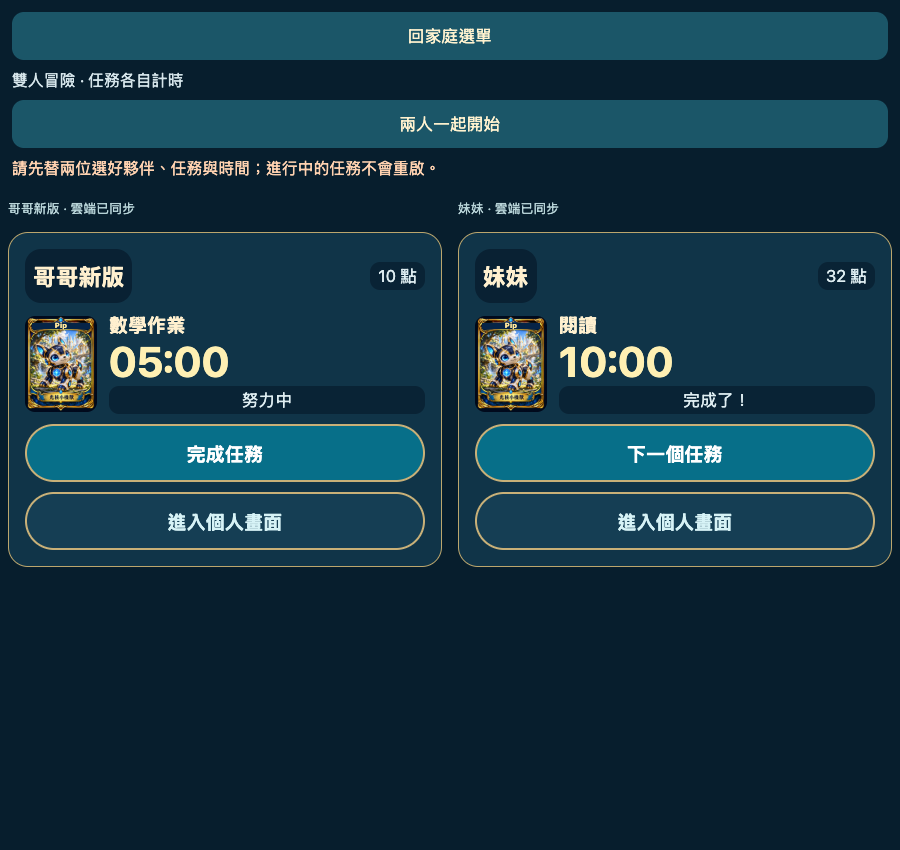
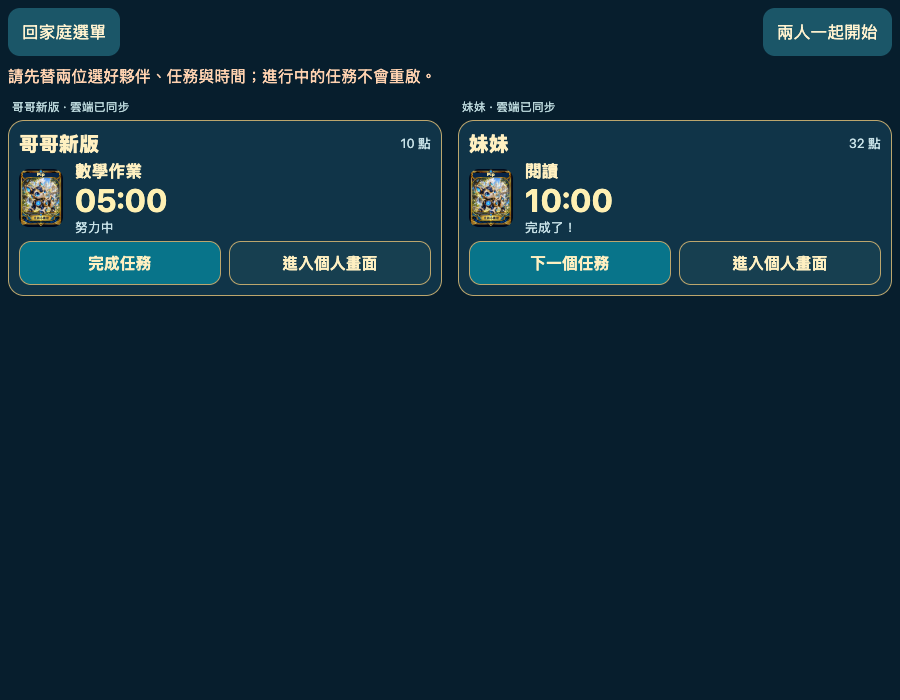
fix(family): fit both child controls on mobile screen
actor=bot approval=user:23180 trigger=duo-mobile-layout; four viewport browser checks passed

diff --git a/src/family/FamilyApp.tsx b/src/family/FamilyApp.tsx
@@ -42,7 +42,7 @@ export default function FamilyApp(){
  const heading=<><Text style={styles.title}>HOLTON HERO</Text><Text style={styles.subtitle}>家庭冒險 · 第二版測試中</Text></>;
  if(!loaded)return <View style={styles.page}><Text style={styles.text}>正在準備家庭冒險…</Text></View>;
  if(!session||recovering)return <ScrollView style={styles.page} contentContainerStyle={styles.center} keyboardShouldPersistTaps="handled">{heading}<View style={styles.card}><Text style={styles.heading}>{recovering?'設定新密碼':signup?'建立家庭帳號':'歡迎回到家庭冒險'}</Text>{!recovering?<TextInput accessibilityLabel="家長 Email" autoCapitalize="none" autoComplete="email" keyboardType="email-address" placeholder="家長 Email" placeholderTextColor="#a8bdc5" value={email} onChangeText={setEmail} style={styles.input}/>:null}<TextInput accessibilityLabel="家庭帳號密碼" secureTextEntry autoCapitalize="none" autoComplete={signup||recovering?'new-password':'current-password'} placeholder="密碼（至少 8 個字元）" placeholderTextColor="#a8bdc5" value={password} onChangeText={setPassword} style={styles.input}/><Btn label={recovering?'儲存新密碼':signup?'註冊':'登入'} disabled={busy} onPress={()=>void run(async()=>{if(recovering){if(password.length<8)throw Error('密碼至少 8 個字元。');const {error}=await supabase.auth.updateUser({password});if(error)throw error;setPassword('');setRecovering(false);}else await authenticate();})}/>{!recovering?<><Btn label={signup?'已有帳號，登入':'第一次使用，建立家庭帳號'} disabled={busy} onPress={()=>{setSignup(!signup);setNotice('');}}/><Btn label="忘記密碼" disabled={busy} onPress={()=>void run(async()=>{if(!email.trim())throw Error('請先填家長 Email。');const {error}=await supabase.auth.resetPasswordForEmail(email.trim(),{redirectTo:location.origin});if(error)throw error;setNotice('若這個信箱有帳號，將收到重設密碼信。');})}/></>:null}<Text style={styles.text}>同一個瀏覽器會保留登入。孩子不用自己的 Email。兩個孩子各自保存進度。</Text>{notice?<Text accessibilityRole="alert" style={styles.notice}>{notice}</Text>:null}</View></ScrollView>;
- if(playing){const players=children.filter(c=>selected.includes(c.id));return <View style={styles.page}><View style={styles.top}><Btn label={expanded&&players.length===2?'回雙人畫面':'回家庭選單'} onPress={()=>{if(expanded&&players.length===2)setExpanded(null);else {setPlaying(false);setExpanded(null);if(children.length<=2)setSelected(children.map(c=>c.id));}}}/><Text style={styles.text}>{players.length===2?'雙人冒險':'單人冒險'} · 任務各自計時</Text>{players.length===2&&!expanded?<Btn label="兩人一起開始" disabled={busy} onPress={()=>void run(async()=>{const pair=players.map(c=>controls.current[c.id]);if(pair.some(c=>!c?.ready))throw Error('請先替兩位選好夥伴、任務與時間；進行中的任務不會重啟。');const at=Date.now();const results=await Promise.all(pair.map(c=>c!.start(at)));if(results.some(ok=>!ok))throw Error('有任務尚未開始，請查看各自的儲存提示；已開始的會繼續計時。');})}/>:null}{notice?<Text accessibilityRole="alert" style={styles.notice}>{notice}</Text>:null}</View><ScrollView contentContainerStyle={{flexGrow:1}}><View style={{flexDirection:width>=850&&!expanded?'row':'column',flex:1}}>{players.map((c,i)=><View key={c.id} style={{flex:1,display:expanded&&expanded!==c.id?'none':'flex'}}><ChildGame controls={controls} child={c} compact={players.length===2&&expanded!==c.id} musicOwner={i===0} onExpand={()=>setExpanded(c.id)}/></View>)}</View></ScrollView></View>;}
+ if(playing){const players=children.filter(c=>selected.includes(c.id));return <View style={styles.page}><View style={[styles.top,players.length===2&&!expanded&&{flexDirection:'row',flexWrap:'wrap',alignItems:'center',justifyContent:'space-between'}]}><Btn label={expanded&&players.length===2?'回雙人畫面':'回家庭選單'} onPress={()=>{if(expanded&&players.length===2)setExpanded(null);else {setPlaying(false);setExpanded(null);if(children.length<=2)setSelected(children.map(c=>c.id));}}}/>{players.length===2&&!expanded?null:<Text style={styles.text}>任務各自計時</Text>}{players.length===2&&!expanded?<Btn label="兩人一起開始" disabled={busy} onPress={()=>void run(async()=>{const pair=players.map(c=>controls.current[c.id]);if(pair.some(c=>!c?.ready))throw Error('請先替兩位選好夥伴、任務與時間；進行中的任務不會重啟。');const at=Date.now();const results=await Promise.all(pair.map(c=>c!.start(at)));if(results.some(ok=>!ok))throw Error('有任務尚未開始，請查看各自的儲存提示；已開始的會繼續計時。');})}/>:null}{notice?<Text accessibilityRole="alert" style={[styles.notice,{width:'100%'}]}>{notice}</Text>:null}</View><ScrollView contentContainerStyle={{flexGrow:1}}><View style={{flexDirection:width>=700&&!expanded?'row':'column',flex:1}}>{players.map((c,i)=><View key={c.id} style={{flex:1,display:expanded&&expanded!==c.id?'none':'flex'}}><ChildGame controls={controls} child={c} compact={players.length===2&&expanded!==c.id} musicOwner={i===0} onExpand={()=>setExpanded(c.id)}/></View>)}</View></ScrollView></View>;}
  return <FamilyStorageContext.Provider value={scope}><ScrollView style={styles.page} contentContainerStyle={styles.center} keyboardShouldPersistTaps="handled">{heading}<View style={styles.card}><Text style={styles.heading}>我們的家庭冒險</Text><Text style={styles.text}>兩個名字、各自進度。任務和時間可以在同一畫面設定。</Text>{children.length>2?<><Text style={styles.text}>既有資料都保留，請選今天使用的兩位。</Text>{children.map(c=><Btn key={c.id} label={`${selected.includes(c.id)?'✓ ':''}${c.nickname}`} onPress={()=>setSelected(ids=>ids.includes(c.id)?ids.filter(id=>id!==c.id):ids.length<2?[...ids,c.id]:ids)}/>)}</>:null}<Btn label={selected.length===2?'開始雙人冒險':'開始冒險'} disabled={!pinReady||selected.length===0||busy} onPress={()=>{setExpanded(null);setManage(false);setPlaying(true);}}/>{children.length<=2?children.map(c=><Btn key={c.id} label={`只有 ${c.nickname} 玩`} disabled={!pinReady} onPress={()=>{setSelected([c.id]);setExpanded(null);setManage(false);setPlaying(true);}}/>):null}{family?<Btn label={pinReady?'家長管理孩子':'設定家長小屋 PIN'} onPress={()=>setPinOpen(true)}/>:<Text style={styles.text}>正在讀取家庭…</Text>}{manage?<View style={{gap:10}}><ChildNames key={children.map(c=>c.id).join()+selected.join()} family={family} children={children.length>2?children.filter(c=>selected.includes(c.id)):children} blocked={children.length>2&&selected.length!==2} onSaved={kids=>{setChildren(kids);if(kids.length<=2)setSelected(kids.map(c=>c.id));}}/><Btn label="離開家長管理" onPress={()=>setManage(false)}/><Btn label="登出家庭帳號" onPress={()=>void run(async()=>{const {error}=await supabase.auth.signOut();if(error)throw error;})}/></View>:null}{notice?<Text accessibilityRole="alert" style={styles.notice}>{notice}</Text>:null}</View></ScrollView><ParentPinGate visible={pinOpen&&!!family} onConfirm={()=>{setPinOpen(false);setPinReady(true);setManage(true);}} onCancel={()=>setPinOpen(false)}/></FamilyStorageContext.Provider>;
 }
-const styles=StyleSheet.create({page:{flex:1,backgroundColor:'#071e2d'},center:{alignItems:'center',padding:18,paddingBottom:50,gap:12},title:{color:'#ffe7a6',fontSize:28,fontWeight:'800',marginTop:24},subtitle:{color:'#aacad6',fontSize:15},card:{width:'100%',maxWidth:580,padding:20,borderRadius:22,backgroundColor:'#103448',gap:12},heading:{color:'#fff0c1',fontSize:22,fontWeight:'700'},text:{color:'#d5e5ea',fontSize:16,lineHeight:24},input:{borderWidth:1,borderColor:'#a18c59',borderRadius:12,padding:14,color:'#fff',fontSize:18},button:{backgroundColor:'#1b5668',padding:14,borderRadius:12,minHeight:48},buttonText:{color:'#fff2cf',fontSize:17,textAlign:'center'},notice:{color:'#ffd2b0',fontSize:16,lineHeight:24},sync:{fontSize:13,color:'#b8d4d8',padding:8},top:{padding:12,gap:8}});
+const styles=StyleSheet.create({page:{flex:1,backgroundColor:'#071e2d'},center:{alignItems:'center',padding:18,paddingBottom:50,gap:12},title:{color:'#ffe7a6',fontSize:28,fontWeight:'800',marginTop:24},subtitle:{color:'#aacad6',fontSize:15},card:{width:'100%',maxWidth:580,padding:20,borderRadius:22,backgroundColor:'#103448',gap:12},heading:{color:'#fff0c1',fontSize:22,fontWeight:'700'},text:{color:'#d5e5ea',fontSize:16,lineHeight:24},input:{borderWidth:1,borderColor:'#a18c59',borderRadius:12,padding:14,color:'#fff',fontSize:18},button:{backgroundColor:'#1b5668',padding:14,borderRadius:12,minHeight:48},buttonText:{color:'#fff2cf',fontSize:17,textAlign:'center'},notice:{color:'#ffd2b0',fontSize:16,lineHeight:24},sync:{fontSize:12,color:'#b8d4d8',paddingHorizontal:12,paddingVertical:3},top:{padding:8,gap:8}});

diff --git a/src/LightApp.tsx b/src/LightApp.tsx
@@ -353,13 +353,16 @@ export default function LightApp({childNickname,compact=false,musicOwner=true,on
     void change(s => ['preparing', 'active', 'finishing'].includes(s.phase) ? s : ({ ...s, title: title.trim(), taskCategory: undefined, dailyGoal: target, minutes: n, cardId: timeChallenges.find(card => card.minutes === n)?.id, phase: 'ready', remaining: n * 60, deadline: null, help: false }));
   }
   if(pinReady!==true)return <SafeAreaView style={styles.root}><Text style={styles.body}>請先由家長設定這台裝置的家長小屋密碼。</Text>{button('設定家長密碼',()=>setPinSetupVisible(true),true)}<ParentPinGate visible={pinReady===false&&pinSetupVisible} onConfirm={()=>setPinReady(true)} onCancel={()=>setPinSetupVisible(false)}/></SafeAreaView>;
-  if(compact)return <View testID="duo-child-task" style={{padding:16,borderRadius:20,backgroundColor:'#103448',borderWidth:1,borderColor:'#bca66d',gap:10,margin:8}}>
-    <View style={{flexDirection:'row',alignItems:'center',justifyContent:'space-between'}}><Text style={styles.heading}>{childNickname||state.childName}</Text><Text style={styles.body}>{state.orbs} 點</Text></View>
-    <View style={{flexDirection:'row',alignItems:'center',gap:12}}>{starterId?<StarterCompanionArt id={starterId} width={72}/>:null}<View style={{flex:1}}><Text style={styles.section}>{state.title||'還沒選今天的任務'}</Text><Text accessibilityLabel="任務倒數" style={{color:'#fff0b3',fontSize:42,fontWeight:'bold'}}>{clockText(state.minutes===0?Math.floor(focusElapsed/1000):remaining)}</Text><Text style={styles.body}>{state.help?'休息中':state.phase==='active'?'努力中':state.phase==='finishing'?'準備收尾':state.phase==='done'?'完成了！':'準備中'}</Text></View></View>
+  const duoButton = (label:string, action:()=>void, secondary=false, disabled=false) => <Pressable testID={secondary?"secondary-action":"primary-action"} accessibilityRole="button" accessibilityLabel={label} disabled={disabled||saving} onPress={action} style={{flex:1,minHeight:44,justifyContent:'center',alignItems:'center',paddingHorizontal:6,borderRadius:12,backgroundColor:secondary?'#173f50':'#08748a',borderWidth:1,borderColor:'#bca66d',opacity:disabled||saving ? .45 : 1}}><Text style={{color:'#fff0c1',fontSize:16,fontWeight:'700',textAlign:'center'}}>{label}</Text></Pressable>;
+  if(compact)return <View testID="duo-child-task" style={{padding:10,borderRadius:16,backgroundColor:'#103448',borderWidth:1,borderColor:'#bca66d',gap:6,marginHorizontal:8,marginVertical:3}}>
+    <View style={{flexDirection:'row',alignItems:'center',justifyContent:'space-between'}}><Text numberOfLines={1} style={{color:'#fff0c1',fontSize:21,fontWeight:'800',flex:1}}>{childNickname||state.childName}</Text><Text style={{color:'#c7e1e7',fontSize:13}}>{state.orbs} 點</Text></View>
+    <View style={{flexDirection:'row',alignItems:'center',gap:12}}>{starterId?<StarterCompanionArt id={starterId} width={44}/>:null}<View style={{flex:1}}><Text numberOfLines={1} style={{color:'#fff0c1',fontSize:17,fontWeight:'700'}}>{state.title||'還沒選今天的任務'}</Text><Text accessibilityLabel="任務倒數" style={{color:'#fff0b3',fontSize:32,fontWeight:'bold'}}>{clockText(state.minutes===0?Math.floor(focusElapsed/1000):remaining)}</Text><Text style={{color:'#c7e1e7',fontSize:13}}>{state.help?'休息中':state.phase==='active'?'努力中':state.phase==='finishing'?'準備收尾':state.phase==='done'?'完成了！':'準備中'}</Text></View></View>
     {error?<Text accessibilityRole="alert" style={styles.error}>{error}</Text>:null}
-    {state.phase==='ready'?<View style={{gap:8}}><TextInput accessibilityLabel="任務名稱" value={title} onChangeText={setTitle} maxLength={80} placeholder="今天想完成什麼？" placeholderTextColor="#a8bdc5" style={styles.input}/><Text style={styles.body}>時間（分鐘，0 為不限時）</Text><TextInput accessibilityLabel="任務時間（分鐘）" value={minutes} onChangeText={setMinutes} keyboardType="number-pad" style={styles.input}/></View>:null}
-    {!starterId?button('選擇自己的夥伴',()=>onExpand?.()):['ready','preparing'].includes(state.phase)?button('開始任務',()=>void startDuo(Date.now()),false,!duoReady):state.phase==='active'?button('完成任務',()=>void change(enterFinishing),false,!focusReady):state.phase==='finishing'?button(finish.button,()=>void change(completeTask)):state.phase==='done'?button('下一個任務',()=>void change(s=>({...s,phase:'ready',deadline:null,remaining:s.minutes*60,help:false,focusElapsedMs:0,focusStartedAt:null}))):null}
-    {button('進入個人畫面',()=>onExpand?.(),true)}
+    {state.phase==='ready'?<View style={{flexDirection:'row',gap:8}}><TextInput accessibilityLabel="任務名稱" value={title} onChangeText={setTitle} maxLength={80} placeholder="任務名稱" placeholderTextColor="#a8bdc5" style={{flex:1,minWidth:0,height:44,borderWidth:1,borderColor:'#72909a',borderRadius:8,paddingHorizontal:8,color:'#fff',fontSize:16}}/><View style={{flexDirection:'row',alignItems:'center',gap:4}}><TextInput accessibilityLabel="任務時間（分鐘）" value={minutes} onChangeText={setMinutes} keyboardType="number-pad" style={{width:48,height:44,borderWidth:1,borderColor:'#72909a',borderRadius:8,textAlign:'center',color:'#fff',fontSize:16}}/><Text style={{color:'#c7e1e7',fontSize:13}}>分</Text></View></View>:null}
+    <View style={{flexDirection:'row',gap:8}}>
+    {!starterId?duoButton('選擇自己的夥伴',()=>onExpand?.()):['ready','preparing'].includes(state.phase)?duoButton('開始任務',()=>void startDuo(Date.now()),false,!duoReady):state.phase==='active'?duoButton('完成任務',()=>void change(enterFinishing),false,!focusReady):state.phase==='finishing'?duoButton(finish.button,()=>void change(completeTask)):state.phase==='done'?duoButton('下一個任務',()=>void change(s=>({...s,phase:'ready',deadline:null,remaining:s.minutes*60,help:false,focusElapsedMs:0,focusStartedAt:null}))):null}
+    {duoButton('進入個人畫面',()=>onExpand?.(),true)}
+    </View>
   </View>;
   if(!starterId&&homePhase&&!state.guardianChallenge) return <StarterCompanionPicker busy={saving} error={error} onChoose={id=>{void change(s=>isStarterCompanion(s.starterCompanionId)?s:{...s,starterCompanionId:id});}}/>;
   if(mapOpen && !settingsOpen && !pending && !challenge) return <WorldMap journeys={journey} activeWorld={world} onEnter={w=>{if(homePhase)void goWorld(w);}} canEnter={homePhase} onSettings={()=>openParent()} onBack={()=>navigateRoom('village')} saving={saving} error={error}/>;
